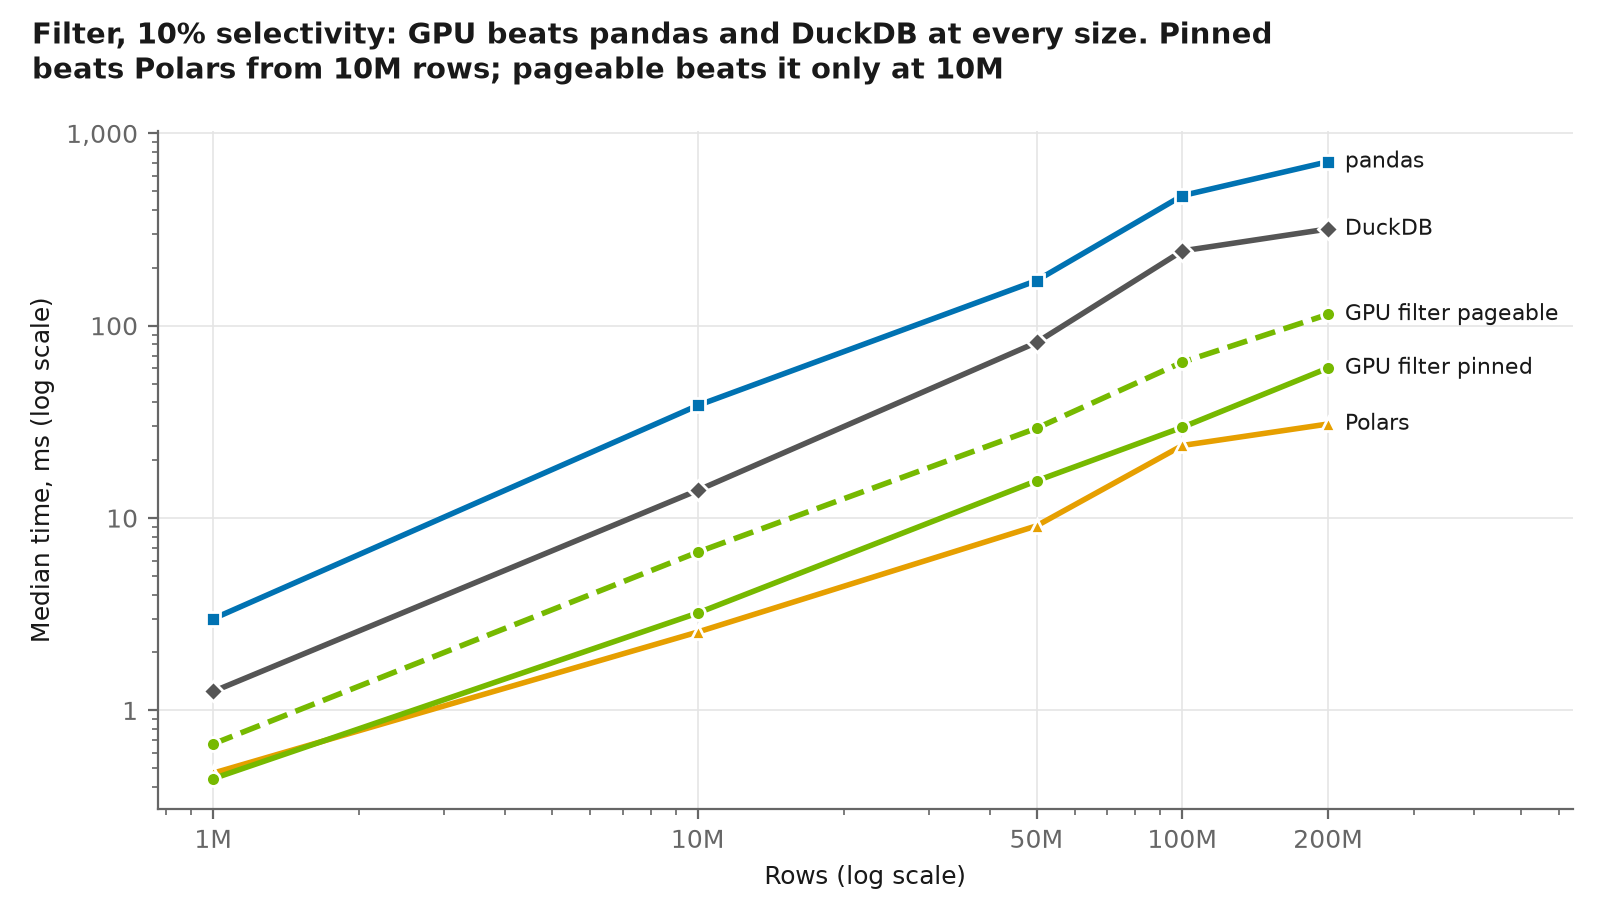
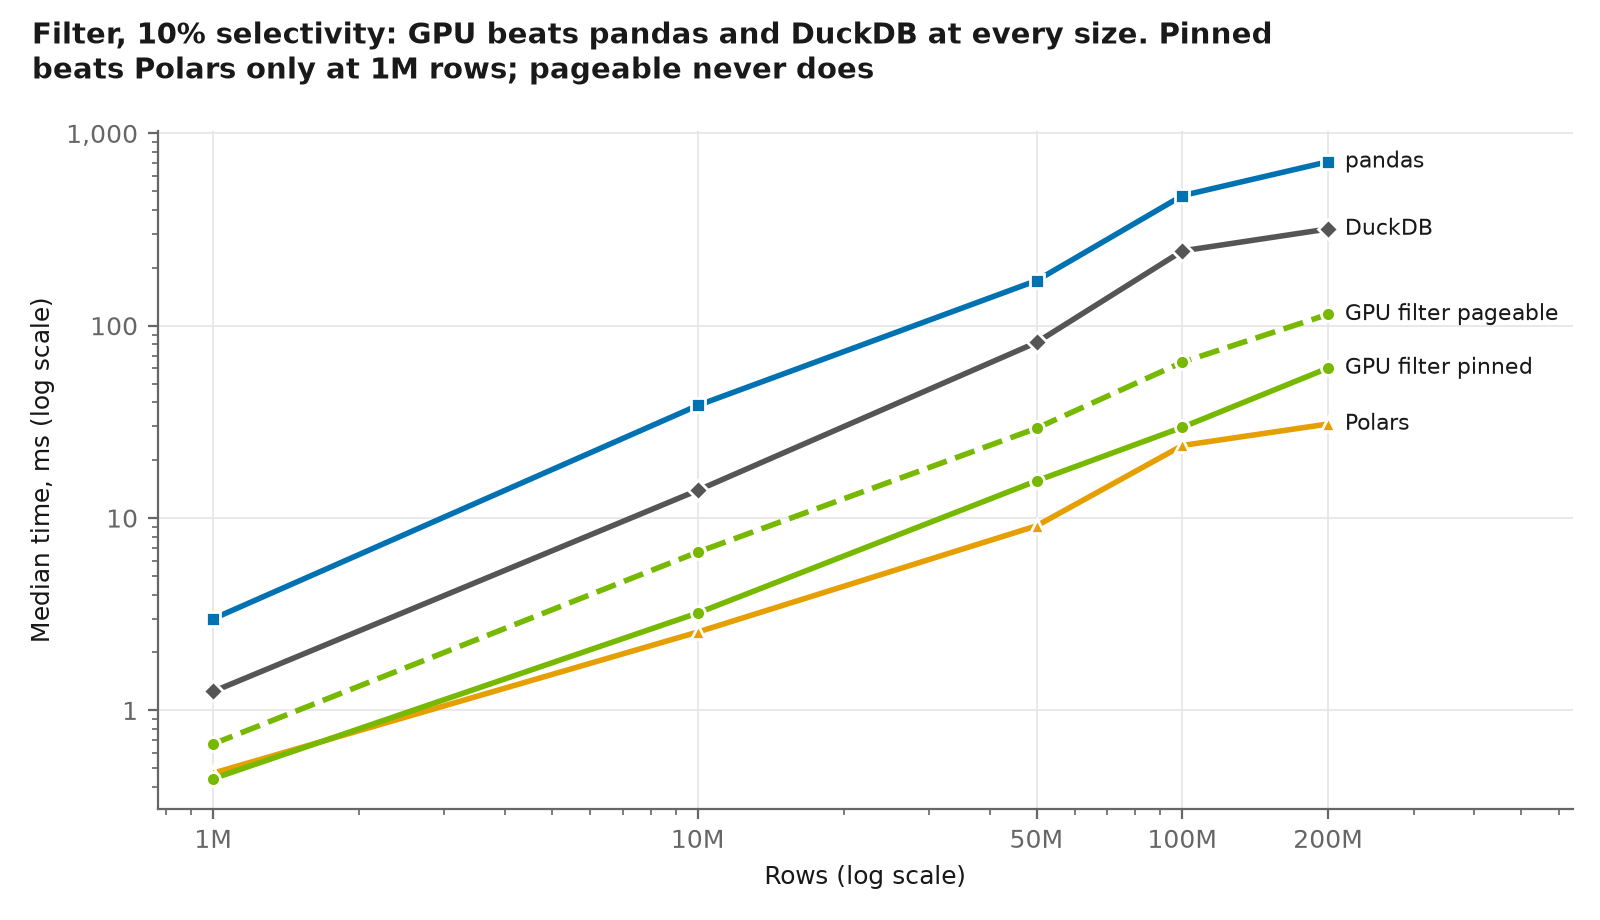
Rewrite README with Best performance results; fix two chart titles
Polars wins the filter end to end from 10M rows. Group-by wins hold.
Adds the measured pinned fill (21.2 ms), cold-start times, the
expected_groups cost and the Polars 1K-groups two-mode noise.

Changed region(s): [[0.1562, 0.0609, 0.625, 0.0913]]

diff --git a/benchmarks/plot.py b/benchmarks/plot.py
@@ -96,7 +96,7 @@ def filter_crossover(f):
     ax.set_xticks(sizes)
     ax.set_xlim(right=sizes[-1] * 3.2)  # room for the end labels
     save(fig, "filter_crossover.png", "Filter, 10% selectivity: GPU beats pandas and DuckDB at "
-         "every size. Pinned beats Polars from 10M rows; pageable beats it only at 10M",
+         "every size. Pinned beats Polars only at 1M rows; pageable never does",
          (ax, ends))
 
 
@@ -165,7 +165,7 @@ def groupby_block_speedup(g):
     ax.grid(axis="x", visible=False)
     ax.legend(loc="upper right", fontsize=8)
     save(fig, "groupby_block_speedup.png", "Group-by, 100M rows: block is 6-7x faster at 10 "
-         "groups, but about 6% slower than global at 1M uniform groups")
+         "groups, but about 5% slower than global at 1M uniform groups")
 
 
 def main():

diff --git a/README.md b/README.md
@@ -2,45 +2,47 @@
 
 Hand-written CUDA filter and hash group-by kernels in CuPy RawKernel, benchmarked against pandas, Polars and DuckDB on an RTX 5060 Laptop GPU.
 
-- Filter, 100M rows, 10% selectivity: 29.5 ms on the GPU with pinned memory end to end, including the copies, against 48.6 ms for Polars.
-- Group-by, 100M rows, 1M groups: 119.3 ms on the GPU (block strategy, pinned), against 1,147.4 ms for Polars.
-- Group-by, 100M rows, 10 groups: the block kernel takes 12.1 ms and the global kernel takes 89.2 ms (7.39x).
+- Group-by, 100M rows, 1M groups: 119.3 ms on the GPU (block strategy, pinned), against 1,224.0 ms for Polars.
+- Filter, 100M rows, 10% selectivity: the GPU kernels alone take 12.8 ms, against 23.8 ms for Polars. End to end, Polars wins, because the copies make the GPU take 29.7 ms with pinned memory.
+- Group-by, 100M rows, 10 groups: the block kernel is 7.21x faster than the global kernel (12.4 ms against 89.6 ms).
 
 ## Results
 
 All numbers are median times in milliseconds from `benchmarks/results/filter.csv` and `benchmarks/results/groupby.csv`. "Pinned" and "pageable" times include the copy to the GPU and back. "Kernel only" times start and end with the data already on the GPU (see Benchmark method).
 
-### Filter: where the GPU starts to win
+### Filter: Polars wins end to end from 10M rows
 
 ![Filter crossover at 10% selectivity](docs/figures/filter_crossover.png)
 
-The query is `value < threshold` on one int32 column, with 10% of the rows passing. The GPU filter (pinned) beats pandas and DuckDB at every size from 1M to 200M rows. At 1M rows it ties Polars: 0.461 ms against 0.469 ms, which is within the run-to-run noise. From 10M rows it wins: 29.5 ms against 48.6 ms at 100M rows, and 62.6 ms against 81.3 ms at 200M. With pageable memory, the GPU beats Polars only at 10M rows (16.8 ms against 18.3 ms).
+The query is `value < threshold` on one int32 column, with 10% of the rows passing. The GPU filter (pinned) beats pandas and DuckDB at every size from 1M to 200M rows. Against Polars, it wins only at 1M rows: 0.442 ms against 0.472 ms. From 10M rows Polars wins: 23.8 ms against 29.7 ms at 100M rows, and 30.8 ms against 60.3 ms at 200M. With pageable memory, the GPU never beats Polars.
 
-### Filter: the copy is the bottleneck
+### Filter: the copies make Polars win
 
 ![Filter time split at 100M rows](docs/figures/filter_time_split.png)
 
-At 100M rows and 10% selectivity, the kernels take 12.6 ms. End to end, the same filter takes 61.9 ms with pageable memory and 29.5 ms with pinned memory. In other words, the copy and transfer overhead is 80% of the pageable time and 57% of the pinned time. The copy part is the end-to-end time minus the kernel-only time, so it also includes the allocation of the output.
+At 100M rows and 10% selectivity, the GPU kernels take 12.8 ms, against 23.8 ms for Polars. End to end, the same filter takes 64.7 ms with pageable memory and 29.7 ms with pinned memory. In other words, the copy and transfer overhead is 80% of the pageable time and 57% of the pinned time. The copy part is the end-to-end time minus the kernel-only time, so it also includes the allocation of the output.
 
-### Where the filter loses: Polars at 1% selectivity
+The pinned times start with the data already in the pinned buffer. If the data starts in normal memory, the copy into the pinned buffer adds 21.2 ms. The pinned path then takes 50.9 ms, against 23.8 ms for Polars.
 
-At 1% selectivity, Polars beats the GPU (pinned) at 1M, 50M, 100M and 200M rows. At 100M rows Polars takes 12.0 ms. The GPU takes 27.6 ms end to end, and the kernels alone take 12.8 ms. Thus, at this selectivity the GPU kernels alone are about as fast as the complete Polars filter. The 14.9 ms of copy overhead comes on top. The only size where the GPU wins at 1% is 10M rows (3.7 ms against 6.2 ms).
+### Filter at 1% selectivity: Polars wins from 10M rows
+
+At 1% selectivity, the GPU (pinned) beats Polars only at 1M rows (0.401 ms against 0.520 ms). From 10M rows Polars wins. At 100M rows Polars takes 12.3 ms. The GPU takes 28.7 ms end to end, and the kernels alone take 12.1 ms. Thus, at this selectivity the GPU kernels alone are about as fast as the complete Polars filter. The 16.5 ms of copy overhead comes on top.
 
 ### Group-by: GPU against the CPU engines
 
 ![Group-by time by number of groups](docs/figures/groupby_by_groups.png)
 
-The query is `SELECT key, SUM(value), COUNT(*) GROUP BY key` on 100M rows with uniform keys. The GPU block strategy (pinned) beats every CPU engine at every group count. Against Polars, it takes 43.1 ms against 88.4 ms at 10 groups, 42.9 ms against 106.5 ms at 1K groups, and 119.3 ms against 1,147.4 ms at 1M groups.
+The query is `SELECT key, SUM(value), COUNT(*) GROUP BY key` on 100M rows with uniform keys. The GPU block strategy (pinned) beats every CPU engine at every group count. Against Polars, it takes 45.8 ms against 104.3 ms at 10 groups, and 119.3 ms against 1,224.0 ms at 1M groups. At 1K groups, Polars took from 114 to 545 ms over 3 runs (two modes, cause unknown). The GPU block pinned time of 43.8 ms beat it in every run, by at least 2.6x. The chart shows the CSV value for Polars, 344 ms.
 
 ### Where the group-by loses: the global strategy at 10 groups
 
-The global strategy loses to Polars at 10 groups: 124.6 ms (pinned) against 88.4 ms. Its kernel alone takes 89.2 ms. With 10 groups, all threads do atomic adds on the same few table slots, so the hardware runs these adds one after another. The block strategy adds up the rows of each block in shared memory first, so the kernel time goes down to 12.1 ms.
+The global strategy loses to Polars at 10 groups: 124.6 ms (pinned) against 104.3 ms. Its kernel alone takes 89.6 ms. With 10 groups, all threads do atomic adds on the same few table slots, so the hardware runs these adds one after another. The block strategy adds up the rows of each block in shared memory first, so the kernel time goes down to 12.4 ms.
 
 ### Group-by: block against global
 
 ![Speedup of block over global](docs/figures/groupby_block_speedup.png)
 
-These are kernel-only times at 100M rows. The block strategy is 7.39x faster than global at 10 groups with uniform keys and 6.45x faster with Zipf keys. At 1K groups it is 1.50x (uniform) and 1.81x (Zipf) faster. At 1M uniform groups it is about 6% slower (87.7 ms against 83.0 ms). Most of those rows do not find a place in the shared table and go to the global table anyway. At 1M Zipf groups the common keys stay in the shared table, so block is 3.11x faster.
+These are kernel-only times at 100M rows. The block strategy is 7.21x faster than global at 10 groups with uniform keys and 6.33x faster with Zipf keys. At 1K groups it is 1.37x (uniform) and 1.59x (Zipf) faster. At 1M uniform groups it is about 5% slower (91.3 ms against 86.6 ms). Most of those rows do not find a place in the shared table and go to the global table anyway. At 1M Zipf groups the common keys stay in the shared table, so block is 3.08x faster.
 
 ## What is inside
 
@@ -69,14 +71,14 @@ The kernels are in `engine/`. Each file has one job.
 - Data is made in memory with a fixed seed (`benchmarks/datagen.py`). Values are uniform int32 in [0, 1,000,000,000). Filter sizes are 1M, 10M, 50M, 100M and 200M rows, at 1, 10, 50 and 90% selectivity. Group-by sizes are 1M, 10M, 50M and 100M rows, with 10, 1K and 1M groups. Group keys are distinct random values in [0, 2^31 - 1), uniform or Zipf (a = 1.2).
 - Each point does 3 warmup runs and then takes the median of 10 runs. The GPU is synchronized before and after each run.
 - Each CPU engine gets its frame or table before the timer starts, so only the query is timed. Every engine sums int32 as int64 (Polars with `.cast(pl.Int64)`, DuckDB with `::BIGINT`). Every result is checked against pandas before it is timed.
-- GPU modes: `kernel_only` starts and ends with the data on the GPU. `e2e_pageable` copies from and to normal NumPy memory. `e2e_pinned` copies from and to page-locked memory. The pinned input buffer is filled before the timer starts, as a pinned data loader would give it.
+- GPU modes: `kernel_only` starts and ends with the data on the GPU. `e2e_pageable` copies from and to normal NumPy memory. `e2e_pinned` copies from and to page-locked memory. The pinned input buffer is filled before the timer starts, as a pinned data loader would give it. Filling it from normal memory takes 21.2 ms at 100M rows (median of 10).
+- The timed runs leave out the first call. In a fresh process with an empty kernel cache, at 100M rows, the first filter call took 169.4 ms (second call 12.3 ms). The first block group-by call took 3.7 s (second call 90.2 ms).
 - The crossover point is the smallest row count from which the GPU wins at that size and at all larger sizes.
-- Before each full run I checked free RAM with `Get-CimInstance Win32_OperatingSystem`, and stopped if it was below 5 GB. Free RAM was 5.8 GB for the filter run and 11.9 GB for the last group-by run.
+- All runs in the CSVs and charts used the Windows Best performance power mode on AC. Earlier runs in Balanced mode had the CPU at 800 to 900 MHz and made Polars up to 2x slower. They are in git history.
+- Before each full run I checked free RAM with `Get-CimInstance Win32_OperatingSystem`, and stopped if it was below 5 GB. Free RAM was 11.4 GB for both runs.
 - Known noise:
-  - pandas at 100M rows (10%) has two modes: earlier runs gave 1,676, 1,501 and 413 ms, and later runs gave 586, 393 and 396 ms.
-  - The GPU pageable time goes down from 50M to 100M rows (64.3 to 61.9 ms). The 50M runs had a wide spread (75, 64 and 53 ms).
-  - DuckDB at 1M uniform groups and 100M rows spread by 2x over three runs (4,175, 6,473 and 8,673 ms).
-  - Polars at 1K Zipf groups and 100M rows takes about 710 ms against 106 ms for uniform keys. This repeats, and the cause is unknown.
+  - Polars at 1K uniform groups and 100M rows has two modes. Three runs gave 114.2, 137.4 and 544.7 ms, and the CSV has 344.3 ms. The cause is unknown.
+  - At 1M rows the GPU pinned and Polars filter times differ by at most 0.12 ms.
   - `benchmarks/results/filter_noisy_run1.csv` is an old run with only 3.4 GB RAM free and is not used in the charts.
 
 ## Limits
@@ -85,9 +87,9 @@ The kernels are in `engine/`. Each file has one job.
 - Scan positions are int32, so one call can take at most 2^31 - 1 rows.
 - The GPU has 8 GB of memory. The group-by table needs 24 bytes per slot, so about 2^27 groups fit. The group-by raises MemoryError before it allocates a table that is too big. This memory check does not count the inputs or the outputs.
 - The caller must give `expected_groups`. A value that is too low raises an error, and a value that is too high wastes memory. The group-by output is in hash order, not key order.
+- At 1M uniform groups and 100M rows, an `expected_groups` value 2x too high made the block kernel 1.93x slower. A value 10x too high made it 2.46x slower. This was one run, outside the CSVs.
 - This is a laptop GPU. A desktop card or a data-center GPU may give different crossover points.
 - All results come from one machine. I did not repeat them on other hardware.
-- The time to fill the pinned buffer from normal memory is not measured.
 
 ## How to run
 

diff --git a/docs/decisions.md b/docs/decisions.md
@@ -26,4 +26,5 @@
 - One `__device__ add_global` for both strategies and for the flush, so there is only one global probe loop.
 - Input checks (code review, 2026-11-26): `filter_less_than` raises TypeError for a non-integer threshold and ValueError outside int32; `group_by_sum_count` takes NumPy ints; it checks free GPU memory (24 bytes per slot) and raises MemoryError before it allocates; `ROWS_PER_BLOCK` and `ELEMS` are set once in Python and go into the CUDA source as `#define`.
 - Published benchmarks run in Windows Best performance on AC. In Balanced mode the CPU ran at about 800 to 900 MHz and Polars was up to 2x slower. The Balanced CSVs are in git history.
+- The group-by sweep stops at 100M rows to keep the CPU engine runs short. A 200M check used 3.17 GiB of GPU memory, so GPU memory is not the limit.
 - `exclusive_scan` checks that the int64 total fits int32 and raises OverflowError. The filter and group-by call `_scan` (no check), because 0/1 flags total at most n and the check costs a full pass over the data.

diff --git a/docs/known-issues.md b/docs/known-issues.md
@@ -3,7 +3,7 @@
 - Polars beats GPU end to end at 1% and 10% selectivity from 10M rows, also with pinned memory. At 1% and 100M rows the copy overhead (16.5 ms: e2e_pinned minus kernel_only) costs more than the Polars filter (12.3 ms).
 - Pageable end to end never beats Polars. At 100M rows and 10%, the copies take about 80% of the pageable time.
 - The old `cupy_builtin` kernel_only outlier (13.77 ms at 10M and 90%) came from the Balanced-mode run. The Best performance run gives 1.18 ms.
-- The time to fill the pinned buffer from pageable memory is not measured.
+- Filling the pinned buffer from pageable memory takes 21.2 ms at 100M rows (one median of 10, outside the CSV). The pinned times leave it out.
 - The 8 GB GPU check uses estimates of bytes per row, not measured memory.
 - Many 1M-row wins are very close (about 0.4 ms for both sides at 1%).
 - `filter_noisy_run1.csv` was made with only 3.4 GB RAM free. Do not use it for the chart.
